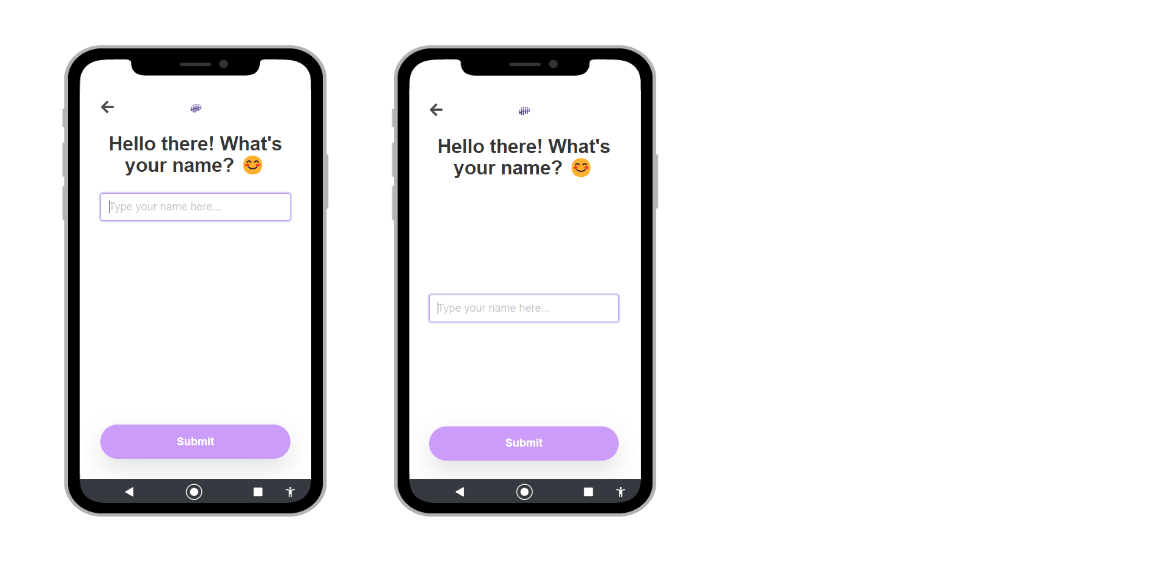
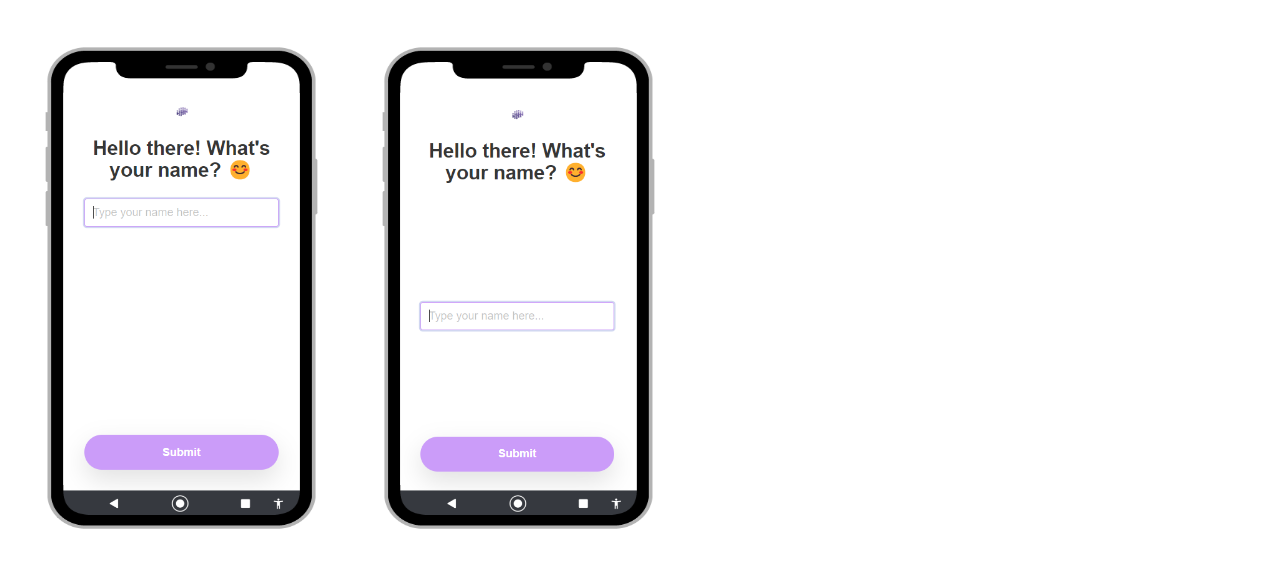
changed order, template fix

Changed region(s): [[0.0306, 0.06, 0.5816, 0.9295], [0.1224, 0.1799, 0.1837, 0.2099]]

diff --git a/docs/integrations/web.md b/docs/integrations/web.md
@@ -121,9 +121,10 @@ Here you can see how it looks. The first screen is the default screen, while the
 ### Custom components
 
 Let's take a look at how you can add new custom components to your screens. Let's say you wanted to add a component for uploading a document to your screen.
+
 The steps are as follows:
 1. Create the components directory in `services/armory/src/components`
-2. Add the component in vue, for example create the file:
+2. Add the component in Vue by creating a `.vue` file in the directory:
 ```javascript title="services/armory/src/components/FileUpload.vue"
 <template>
   <div class="file is-boxed">
@@ -193,13 +194,12 @@ Let's take a look at how to create the `CenteredContent` template we mentioned i
 ```scss title="services/armory/src/assets/css/skin.scss"
 ...
 div.CenteredContent {
-    .group#centered {
         display: flex;
         flex-direction: column;
         flex-grow: 1;
         justify-content: center;
         padding-bottom: 55px;
-    }
+        background-color: whitesmoke;
 }
 ...
 ```
@@ -219,10 +219,8 @@ new Screen("welcomeScreen")
 ...
 ```
 
-We'll show you how to create these templates and custom components in the next section.
-
-Keep in mind that you can link together sequences of multiple Armory screens by specifying the transitions between them: the easiest way to do this is by setting the name of the next screen you want to go to as the value of the `SubmitButton` (e.g. `new SubmitButton("submitName", "Done", "askAddress")` takes the user to the screen where they will be asked to set their address). 
+Keep in mind that you can link together sequences of multiple Armory screens by specifying the transitions between them: the easiest way to do this is by setting the name of the next screen you want to go to as the value of the `SubmitButton` 
+(e.g. `new SubmitButton("submitName", "Done", "askAddress")` takes the user to the screen where they will be asked to set their address). 
 You can find plenty of examples of screen linking in the Armory [tutorial](/docs/tutorials/web-interactions/introduction).
 
-
-That's it, you can now apply your custom template to any screen using the `setTemplate()` function!
+That's it, you can now apply your custom template to any screen you want!
